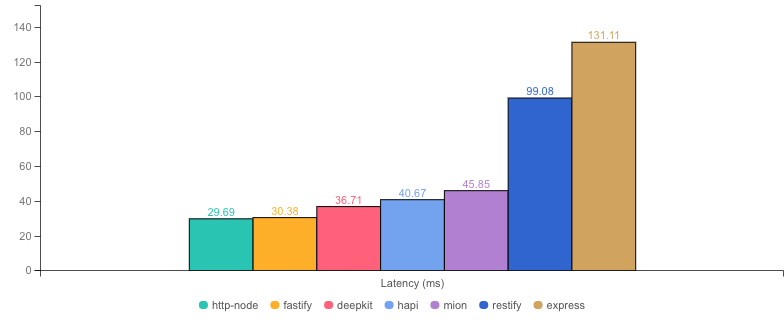
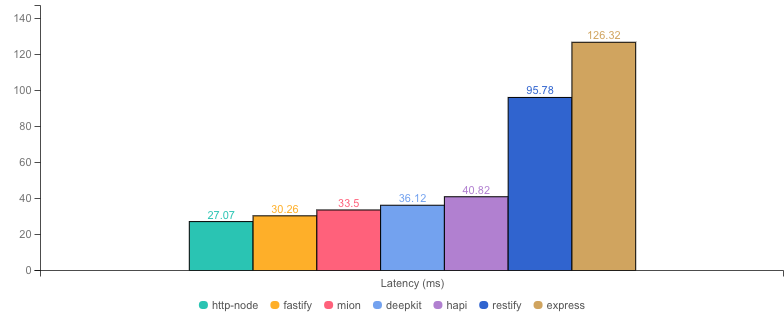
update benchmarks after removing callbacks and setinmediate in mion

diff --git a/lib/bench.js b/lib/bench.js
@@ -15,8 +15,7 @@ const doBench = async (opts, handler) => {
   };
 
   spinner.color = "magenta";
-  spinner.text = `starting server for ${handler}, waiting 3s`;
-  await new Promise((resolve) => setTimeout(resolve, 3000));
+  spinner.text = `starting server for ${handler}`;
 
   try {
     // warm up only half the time

diff --git a/HELLO-WORLD.md b/HELLO-WORLD.md
@@ -37,8 +37,8 @@ app.get("/hello", function (req, res) {
 
 * __Machine:__ darwin x64 | 8 vCPUs | 16.0GB Mem
 * __Node:__ `v18.17.0`
-* __Run:__ Thu Sep 14 2023 23:42:46 GMT+0100 (Irish Standard Time)
-* __Method:__ `autocannon -c 100 -d 40.09 -p 10 localhost:3000` (two rounds; one to warm-up, one to measure)
+* __Run:__ Fri Sep 15 2023 01:58:11 GMT+0100 (Irish Standard Time)
+* __Method:__ `autocannon -c 100 -d 40.03 -p 10 localhost:3000` (two rounds; one to warm-up, one to measure)
 
 #### Req (R/s) 
 
@@ -72,10 +72,10 @@ app.get("/hello", function (req, res) {
 
 |           | Version        | Router | Req (R/s)   | Latency (ms) | Output (Mb/s) | Max Memory (Mb) | Max Cpu (%) | Validation | Description                                                                                               |
 | :--       | --:            | --:    | :-:         | --:          | --:           | --:             | --:         | :-:        | :--                                                                                                       |
-| http-node | 16.18.0        | ✗      | 33180.6     | 29.69        | 5.92          | 85              | 100         | ✗          | Super basic and completely useless bare http server, should be the theoretical upper limit in performance |
-| fastify   | 4.10.2         | ✓      | 32377.8     | 30.38        | 5.81          | 92              | 125         | -          | Validation using schemas and ajv. schemas are generated manually or using third party tools               |
-| deepkit   | 1.0.1-alpha.75 | ✓      | 26864.8     | 36.71        | 4.79          | 182             | 134         | ✓          | Automatic validation and serialization out of the box                                                     |
-| hapi      | 21.3.2         | ✓      | 24300.0     | 40.67        | 4.33          | 117             | 127         | ✗          | validation using joi or third party tools                                                                 |
-| **mion**  | **0.1.0**      | **✓**  | **21565.2** | **45.85**    | **4.32**      | **168**         | **144**     | **✓**      | **Automatic validation and serialization out of the box**                                                 |
-| restify   | 11.1.0         | ✓      | 10033.5     | 99.08        | 2.48          | 104             | 120         | ✗          | manual validation or third party tools                                                                    |
-| express   | 4.18.2         | ✓      | 7597.0      | 131.11       | 1.35          | 140             | 123         | ✗          | manual validation or third party tools                                                                    |
+| http-node | 16.18.0        | ✗      | 36277.0     | 27.07        | 6.47          | 86              | 116         | ✗          | Super basic and completely useless bare http server, should be the theoretical upper limit in performance |
+| fastify   | 4.10.2         | ✓      | 32503.0     | 30.26        | 5.83          | 92              | 120         | -          | Validation using schemas and ajv. schemas are generated manually or using third party tools               |
+| **mion**  | **0.1.0**      | **✓**  | **29408.8** | **33.50**    | **5.89**      | **92**          | **125**     | **✓**      | **Automatic validation and serialization out of the box**                                                 |
+| deepkit   | 1.0.1-alpha.75 | ✓      | 27302.0     | 36.12        | 4.87          | 177             | 136         | ✓          | Automatic validation and serialization out of the box                                                     |
+| hapi      | 21.3.2         | ✓      | 24191.6     | 40.82        | 4.31          | 116             | 126         | ✗          | validation using joi or third party tools                                                                 |
+| restify   | 11.1.0         | ✓      | 10375.4     | 95.78        | 2.56          | 99              | 121         | ✗          | manual validation or third party tools                                                                    |
+| express   | 4.18.2         | ✓      | 7876.1      | 126.32       | 1.40          | 129             | 123         | ✗          | manual validation or third party tools                                                                    |

diff --git a/README.md b/README.md
@@ -88,7 +88,7 @@ Throughput is usually bigger on mion as we send/receive slightly more data in th
 
 * __Machine:__ darwin x64 | 8 vCPUs | 16.0GB Mem
 * __Node:__ `v18.17.0`
-* __Run:__ Thu Sep 14 2023 22:37:20 GMT+0100 (Irish Standard Time)
+* __Run:__ Fri Sep 15 2023 01:51:04 GMT+0100 (Irish Standard Time)
 * __Method:__ `autocannon -c 100 -d 40.01 -p 10 localhost:3000` (two rounds; one to warm-up, one to measure)
 
 #### Req (R/s) 
@@ -123,10 +123,10 @@ Throughput is usually bigger on mion as we send/receive slightly more data in th
 
 |           | Version        | Router | Req (R/s)   | Latency (ms) | Output (Mb/s) | Max Memory (Mb) | Max Cpu (%) | Validation | Description                                                                                               |
 | :--       | --:            | --:    | :-:         | --:          | --:           | --:             | --:         | :-:        | :--                                                                                                       |
-| http-node | 16.18.0        | ✗      | 17179.1     | 57.68        | 4.13          | 87              | 125         | ✗          | Super basic and completely useless bare http server, should be the theoretical upper limit in performance |
-| fastify   | 4.10.2         | ✓      | 14998.8     | 66.12        | 3.62          | 96              | 119         | -          | Validation using schemas and ajv. schemas are generated manually or using third party tools               |
-| **mion**  | **0.1.0**      | **✓**  | **14373.2** | **69.03**    | **3.98**      | **143**         | **143**     | **✓**      | **Automatic validation and serialization out of the box**                                                 |
-| restify   | 11.1.0         | ✓      | 11417.6     | 87.01        | 2.93          | 123             | 119         | ✗          | manual validation or third party tools                                                                    |
-| hapi      | 21.3.2         | ✓      | 8214.9      | 121.08       | 1.97          | 120             | 130         | ✗          | validation using joi or third party tools                                                                 |
-| deepkit   | 1.0.1-alpha.75 | ✓      | 5141.3      | 193.59       | 1.24          | 296             | 148         | ✓          | Automatic validation and serialization out of the box                                                     |
-| express   | 4.18.2         | ✓      | 4493.4      | 221.62       | 1.08          | 120             | 125         | ✗          | manual validation or third party tools                                                                    |
+| http-node | 16.18.0        | ✗      | 17568.9     | 56.39        | 4.22          | 86              | 119         | ✗          | Super basic and completely useless bare http server, should be the theoretical upper limit in performance |
+| fastify   | 4.10.2         | ✓      | 14859.8     | 66.75        | 3.59          | 98              | 119         | -          | Validation using schemas and ajv. schemas are generated manually or using third party tools               |
+| **mion**  | **0.1.0**      | **✓**  | **13910.2** | **71.34**    | **3.85**      | **100**         | **123**     | **✓**      | **Automatic validation and serialization out of the box**                                                 |
+| restify   | 11.1.0         | ✓      | 11803.3     | 83.92        | 3.03          | 102             | 134         | ✗          | manual validation or third party tools                                                                    |
+| hapi      | 21.3.2         | ✓      | 8182.1      | 121.56       | 1.97          | 108             | 129         | ✗          | validation using joi or third party tools                                                                 |
+| deepkit   | 1.0.1-alpha.75 | ✓      | 5194.8      | 191.62       | 1.25          | 307             | 144         | ✓          | Automatic validation and serialization out of the box                                                     |
+| express   | 4.18.2         | ✓      | 4555.2      | 218.49       | 1.09          | 120             | 125         | ✗          | manual validation or third party tools                                                                    |

diff --git a/COLD-STARTS.md b/COLD-STARTS.md
@@ -13,7 +13,7 @@ We are comparing mion against fastify as we consider it to be the gold standard 
 ## Benchmark Results
 * __Machine:__ darwin x64 | 8 vCPUs | 16.0GB Mem
 * __Node:__ `v18.17.0`
-* __Run:__ Thu Sep 14 2023 23:13:44 GMT+0100 (Irish Standard Time)
+* __Run:__ Fri Sep 15 2023 02:00:23 GMT+0100 (Irish Standard Time)
 * __Method:__ `npm run metrics` (samples: 5)
 * __startup:__ time elapsed to setup the application
 * __listen:__ time elapsed until the http server is ready to accept requests (cold start)
@@ -26,25 +26,25 @@ We are comparing mion against fastify as we consider it to be the gold standard 
 
   | | startup(ms) | listen(ms) |
   |-| -           | -          |
-| 10-startup-deepkit-routes.js | 1254 | 1256 |
-| 10-startup-fastify-routes.js | 154 | 221 |
+| 10-startup-deepkit-routes.js | 1253 | 1254 |
+| 10-startup-fastify-routes.js | 153 | 220 |
 | 10-startup-mion-routes.js | 82 | 89 |
-| 100-startup-deepkit-routes.js | 1247 | 1249 |
-| 100-startup-fastify-routes.js | 163 | 321 |
+| 100-startup-deepkit-routes.js | 1246 | 1248 |
+| 100-startup-fastify-routes.js | 162 | 320 |
 | 100-startup-mion-routes.js | 81 | 89 |
-| 500-startup-deepkit-routes.js | 1245 | 1247 |
-| 500-startup-fastify-routes.js | 238 | 749 |
-| 500-startup-mion-routes.js | 80 | 91 |
-| 1000-startup-deepkit-routes.js | 1247 | 1249 |
-| 1000-startup-fastify-routes.js | 341 | 1248 |
+| 500-startup-deepkit-routes.js | 1246 | 1247 |
+| 500-startup-fastify-routes.js | 237 | 748 |
+| 500-startup-mion-routes.js | 81 | 91 |
+| 1000-startup-deepkit-routes.js | 1246 | 1248 |
+| 1000-startup-fastify-routes.js | 339 | 1245 |
 | 1000-startup-mion-routes.js | 81 | 95 |
-| 2000-startup-deepkit-routes.js | 1265 | 1266 |
-| 2000-startup-fastify-routes.js | 560 | 2319 |
-| 2000-startup-mion-routes.js | 82 | 106 |
-| 3000-startup-deepkit-routes.js | 1272 | 1274 |
-| 3000-startup-fastify-routes.js | 840 | 3503 |
+| 2000-startup-deepkit-routes.js | 1264 | 1265 |
+| 2000-startup-fastify-routes.js | 558 | 2314 |
+| 2000-startup-mion-routes.js | 82 | 105 |
+| 3000-startup-deepkit-routes.js | 1272 | 1273 |
+| 3000-startup-fastify-routes.js | 838 | 3495 |
 | 3000-startup-mion-routes.js | 83 | 114 |
-| 5000-startup-deepkit-routes.js | 1290 | 1292 |
-| 5000-startup-fastify-routes.js | 1860 | 6501 |
+| 5000-startup-deepkit-routes.js | 1292 | 1294 |
+| 5000-startup-fastify-routes.js | 1851 | 6467 |
 | 5000-startup-mion-routes.js | 84 | 126 |
 | startup-listen.js | 85 | 91 |
